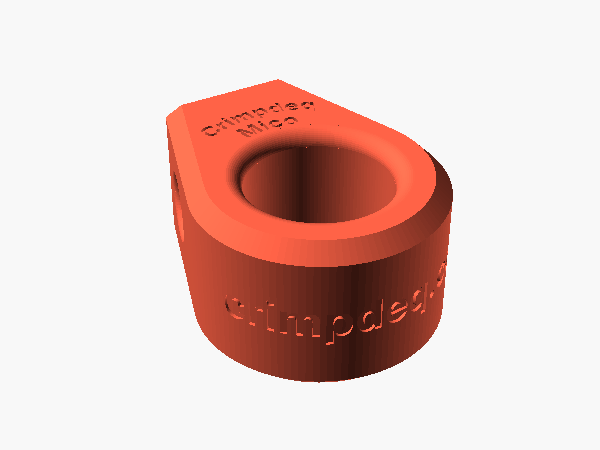
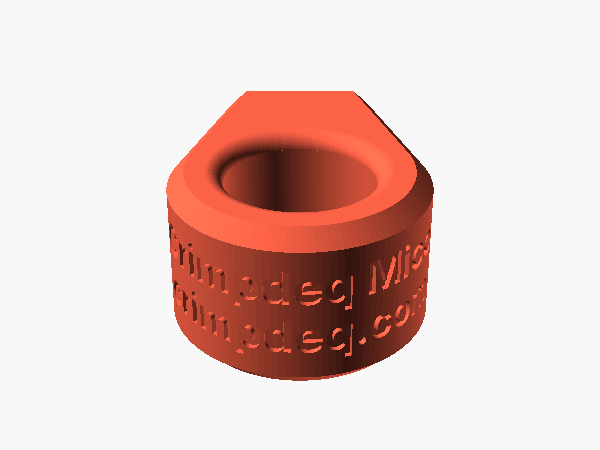
fix: engrave Mico's name around the back, where it prints readably (#12)
* fix: engrave Mico's name around the back, where it prints readably

On the top face, Crimpdeq Mico only fit the nose at size 2.8, and a test
print closed up its strokes and counters. Both lines now run around the
back at size 5 (about 1.1 mm strokes), Crimpdeq Mico over crimpdeq.com,
0.8 mm deep as on Photon and Spark. The model stops with a message if a
line is too long for the round back.

* docs: mark Mico's side engraving as untested in print

Changed region(s): [[0.27, 0.1556, 0.78, 0.8711]]

diff --git a/AGENTS.md b/AGENTS.md
@@ -14,8 +14,9 @@ rerun them.
   `crimpdeq-case`. Engraved texts are `BRAND_TEXT` and `NAME_TEXT`, which `check_step.py` empties.
   The part `name` (not in the part list) is the name engraving's cut, which `grips.png` fills in.
   `mico.scad` is a one-piece mono training loop in its print pose, no hand or parts, engraved
-  `Crimpdeq Mico` in two arcs on the top face and `crimpdeq.com` around the back. Letters are
-  placed one by one from the font's advance widths (`ADVANCES`; add any new character there).
+  `Crimpdeq Mico` over `crimpdeq.com` around the back. Letters are placed one by one from the
+  font's advance widths (`ADVANCES`; add any new character there). Keep engravings on walls: on
+  the top face, the name at the size that fit the nose (2.8) closed up in a test print.
 - `scripts/export.py`: all parts of one hand, or Mico's one STL (`mico`, no hand) (stdlib only);
   parameter file of `Name = value` lines, unknown names rejected.
 - `scripts/check_step.py`: compares every part with its STEP solid (`uv run`, inline dependencies;

diff --git a/docs/src/mico/printing.md b/docs/src/mico/printing.md
@@ -15,8 +15,10 @@ PETG (HF) works too, with the same settings: it bends before it breaks, where PL
 takes more heat. PLA softens from about 55 °C, so keep a PLA Mico out of hot cars and summer sun.
 Either way, replace it if it whitens or cracks, above all around the cord hole.
 
-The STL is already in its print pose: lying on its bottom face, `Crimpdeq Mico` on top. In this
-pose the cord hole runs across the plate and needs no supports.
+The STL is already in its print pose: lying on its bottom face, the finger hole upright. In this
+pose the cord hole runs across the plate and needs no supports. The engravings are around the
+back, where walls should give them cleaner edges than the top face, on which a smaller name closed
+up in a test print; they have not been test-printed there yet.
 
 Each release has Mico's STL (`crimpdeq-grips-mico.stl`) and a Bambu Studio project for the Bambu
 Lab A1 (`crimpdeq-grips-mico.3mf`) with these settings, in Bambu PLA Basic; for PETG, change the

diff --git a/docs/src/mico/size.md b/docs/src/mico/size.md
@@ -1,6 +1,6 @@
 # Size and cord
 
-![Mico from behind: Crimpdeq Mico on the top face, crimpdeq.com around the back](images/mico.png)
+![Mico from behind: Crimpdeq Mico over crimpdeq.com around the back](images/mico.png)
 
 Mico is one printed part for mono (single finger) training: the finger goes through the round
 hole and a cord through the hole across the nose. It is 25 mm high, so the finger rests on a 20 mm
